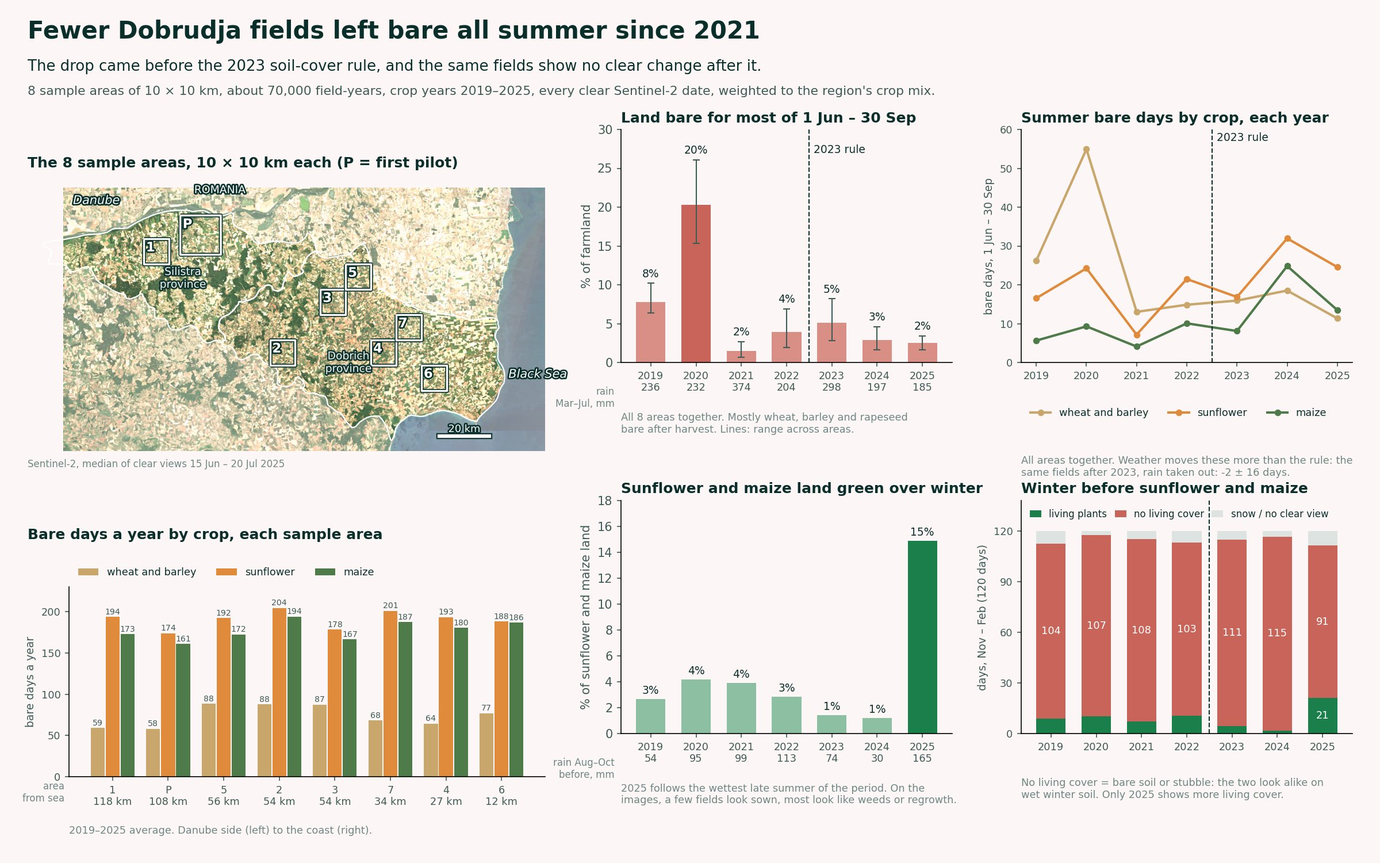
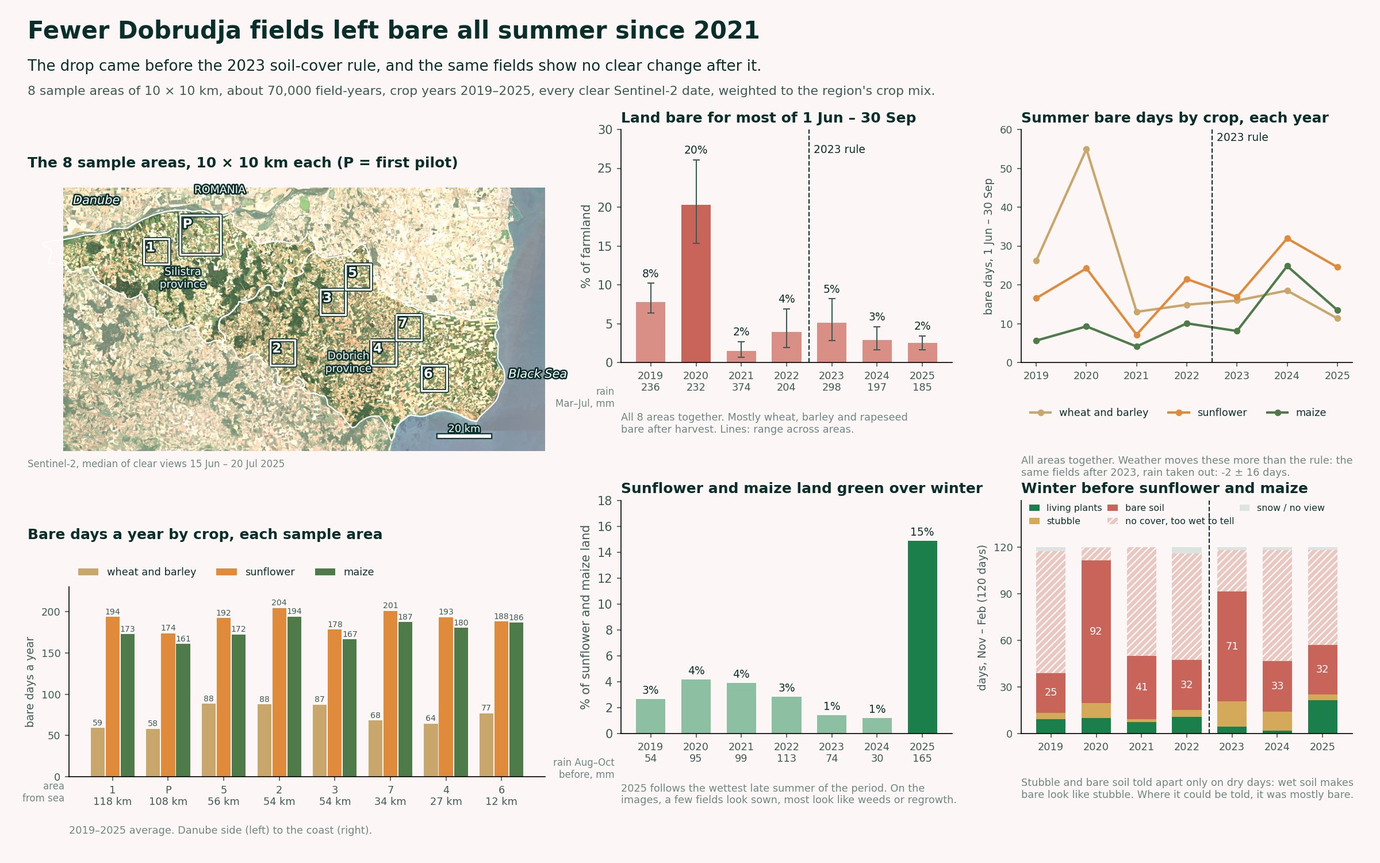
Update site

diff --git a/maritsa-emissions.html b/maritsa-emissions.html
@@ -1,0 +1,187 @@
+<!doctype html>
+<html lang="en">
+<head>
+<meta charset="utf-8">
+<meta name="viewport" content="width=device-width, initial-scale=1, viewport-fit=cover">
+<title>Maritsa Iztok Emissions · Ana Silva</title>
+<meta name="description" content="Do the emissions of Bulgaria's largest lignite complex, seen from space by Sentinel-5P, match what the plants report? SO2 and NOx, 2019 to 2024.">
+<meta property="og:title" content="Maritsa Iztok: do the emissions seen from space match the reports?">
+<meta property="og:description" content="Sentinel-5P SO2 and NO2 over Bulgaria's largest lignite complex, against the EU emissions register.">
+<meta property="og:image" content="https://kirjawa.github.io/assets/maritsa_results.jpg">
+<link rel="preconnect" href="https://fonts.googleapis.com">
+<link rel="preconnect" href="https://fonts.gstatic.com" crossorigin>
+<link rel="stylesheet" href="https://fonts.googleapis.com/css2?family=Instrument+Serif:ital@0;1&family=Figtree:wght@400;500;600&family=IBM+Plex+Mono:wght@400;500&display=swap">
+<style>
+:root{--blush:#F8D3DA;--rose:#DB8FAB;--rose-ink:#A94C73;--teal:#15A19A;--forest:#0B6152;--pine:#073B35;
+--ground:#FDF6F7;--surface:#FFFFFF;--wash:#FBE9ED;--ink:#0A2F2B;--ink-2:#3E5B56;--muted:#6F8783;--hair:#EFD9DF;
+--serif:"Instrument Serif",Georgia,"Times New Roman",serif;--sans:"Figtree",system-ui,-apple-system,"Segoe UI",sans-serif;
+--mono:"IBM Plex Mono",ui-monospace,Menlo,Consolas,monospace}
+@media (prefers-color-scheme:dark){:root:not([data-theme="light"]){color-scheme:dark;--ground:#062724;--surface:#0A3531;--wash:#0D3D38;
+--ink:#FBEAEE;--ink-2:#C9DEDA;--muted:#8FB0AA;--hair:#17504A;--rose-ink:#F0B3C9}}
+*{box-sizing:border-box}
+body{margin:0;background:var(--ground);color:var(--ink);font:400 17px/1.65 var(--sans);-webkit-font-smoothing:antialiased;padding-inline:clamp(16px,4vw,40px)}
+.wrap{max-width:820px;margin:0 auto;padding-block:28px 72px}
+.wide{max-width:1180px;margin:0 auto}
+a{color:var(--rose-ink);text-underline-offset:3px}
+a:focus-visible,button:focus-visible{outline:2px solid var(--teal);outline-offset:3px;border-radius:6px}
+.back{font:500 13px var(--mono);text-decoration:none}
+.eyebrow{display:block;margin-top:34px;font:500 12px/1 var(--mono);letter-spacing:.14em;text-transform:uppercase;color:var(--rose-ink)}
+h1{font:400 clamp(38px,5.5vw,64px)/1.02 var(--serif);margin:14px 0 18px;text-wrap:balance}
+h2{font:400 clamp(28px,3.4vw,38px)/1.1 var(--serif);margin:52px 0 12px;text-wrap:balance}
+h3{font:600 17px/1.3 var(--sans);margin:26px 0 6px}
+p,li{color:var(--ink-2)}
+.lede{font-size:19.5px;color:var(--ink)}
+ol,ul{padding-left:22px}
+li{margin:6px 0}
+figure{margin:28px 0}
+figure img{width:100%;height:auto;display:block;border-radius:12px;border:1px solid var(--hair);background:#FDF6F7;cursor:zoom-in}
+figcaption{font:400 13.5px/1.5 var(--sans);color:var(--muted);margin-top:8px}
+.pair{display:grid;grid-template-columns:1fr 1fr;gap:18px}
+.pair figure{margin:0}
+table{width:100%;border-collapse:collapse;font-size:15.5px;margin:18px 0}
+th,td{text-align:left;padding:9px 10px;border-bottom:1px solid var(--hair);vertical-align:top}
+th{font:500 12px var(--mono);letter-spacing:.06em;text-transform:uppercase;color:var(--muted)}
+th:not(:first-child){text-align:right}
+.src th,.src td{text-align:left}
+td.n{text-align:right;font-variant-numeric:tabular-nums;white-space:nowrap}
+.tbl{overflow-x:auto}
+.note{background:var(--wash);border-radius:12px;padding:16px 20px;margin:24px 0}
+.note p{margin:0}
+.src td:first-child{white-space:nowrap;color:var(--ink)}
+footer{border-top:1px solid var(--hair);margin-top:56px;padding-top:18px;font:400 13px var(--mono);color:var(--muted)}
+@media (max-width:760px){.pair{grid-template-columns:1fr}}
+/* workflow */
+.flow{margin:26px 0 30px;border:1px solid var(--hair);border-radius:16px;background:var(--surface);padding:22px clamp(14px,3vw,26px)}
+.flow .lbl{font:500 11.5px/1 var(--mono);letter-spacing:.12em;text-transform:uppercase;color:var(--muted);margin:0 0 10px}
+.srcs{display:flex;flex-wrap:wrap;gap:8px;margin-bottom:6px}
+.srcs span{font:500 13px/1.3 var(--sans);color:var(--ink);background:var(--ground);border:1px solid var(--hair);border-radius:99px;padding:6px 12px}
+.arrow{height:26px;display:grid;place-items:center;color:var(--rose-ink);font:16px/1 var(--sans)}
+.row{display:grid;grid-template-columns:1.25fr 1fr;gap:14px;align-items:stretch}
+.step{background:var(--ground);border:1px solid var(--hair);border-left:4px solid var(--forest);border-radius:10px;padding:12px 14px}
+.step b{display:block;font:600 15.5px/1.3 var(--sans);color:var(--ink)}
+.step p{margin:4px 0 0;font-size:14.5px;line-height:1.5}
+.tools{display:block;margin-top:6px;font:400 12px/1.4 var(--mono);color:var(--muted)}
+.chk{background:var(--wash);border-radius:10px;padding:12px 14px;border:1px dashed var(--rose)}
+.chk i{font:500 11px/1 var(--mono);letter-spacing:.1em;text-transform:uppercase;color:var(--rose-ink);font-style:normal;display:block;margin-bottom:5px}
+.chk p{margin:0;font-size:14px;line-height:1.5}
+.chk.empty{background:none;border:0}
+.outs{display:grid;grid-template-columns:repeat(3,1fr);gap:8px}
+.outs span{font:500 13.5px/1.35 var(--sans);color:#fff;background:var(--forest);border-radius:10px;padding:10px 12px}
+@media (max-width:640px){.row{grid-template-columns:1fr;gap:8px}.chk.empty{display:none}.outs{grid-template-columns:1fr}}
+/* lightbox */
+dialog.lb{border:0;padding:0;margin:0;width:100vw;height:100vh;max-width:none;max-height:none;background:rgba(7,39,36,.94);color:#fff}
+.lb-stage{position:absolute;inset:52px 56px 56px;overflow:auto;display:grid;place-items:center}
+.lb-stage img{max-width:100%;max-height:100%;object-fit:contain;cursor:zoom-in;border-radius:6px;background:#FDF6F7}
+.lb.full .lb-stage{place-items:start}.lb.full .lb-stage img{max-width:none;max-height:none;cursor:zoom-out}
+.lb-cap{position:absolute;left:56px;right:56px;bottom:16px;text-align:center;font-size:14px;color:#E8F1EF}
+.lb button{position:absolute;top:10px;right:14px;background:rgba(253,246,247,.1);color:#fff;border:1px solid rgba(248,211,218,.3);border-radius:99px;width:44px;height:44px;font-size:20px;cursor:pointer}
+</style>
+</head>
+<body>
+<div class="wrap">
+  <a class="back" href="./">← Ana Silva · portfolio</a>
+  <span class="eyebrow">Study · Maritsa Iztok, Bulgaria</span>
+  <h1>Maritsa Iztok: do the emissions seen from space match the reports?</h1>
+  <p class="lede">The Maritsa Iztok lignite complex near Galabovo has four power plants within about 20 km, and it is often described as Europe's largest single source of sulphur dioxide. The plants report their yearly emissions to the EU register. The Sentinel-5P satellite measures SO₂ and NO₂ over the complex almost every day. So I asked: do the two tell the same story?</p>
+  <p>The study looks at the complex as a whole, from 2019 to 2024. This page explains how, what I found, and what satellites can and can't say about it.</p>
+</div>
+
+<div class="wide">
+  <figure><img src="assets/maritsa_results.jpg" alt="Yearly SO2 maps over Maritsa Iztok from 2019 to 2024, and charts of SO2 and NOx estimated from space against the plants' reported emissions" data-caption="Maritsa Iztok from space: NOx matches the reports, SO₂ reads 3–4 times higher"><figcaption>All results on one page. Click to enlarge.</figcaption></figure>
+</div>
+
+<div class="wrap">
+  <h2>How I did it</h2>
+  <div class="flow" role="figure" aria-label="Workflow of the study, from open data sources to results, with the checks at each step">
+    <p class="lbl">Open data in</p>
+    <div class="srcs"><span>Sentinel-5P SO₂ and NO₂ (ESA reprocessed)</span><span>ERA5 wind</span><span>EU industrial emissions register</span><span>NASA global SO₂ catalogue</span></div>
+    <div class="arrow" aria-hidden="true">↓</div>
+    <div class="row"><div class="step"><b>1 · Every overpass, only the window needed</b><p>Each daily orbit file is about 1 GB. Only the part over the complex is read, for every day from May 2018 to June 2025.</p><span class="tools">OData catalogue · S3 · h5py · pandas</span></div><div class="chk"><i>Check</i><p>ESA's reprocessed archive, one consistent software version. On the same days, the older version gives the same result (ratio 1.01 for SO₂, 0.95 for NO₂).</p></div></div>
+    <div class="arrow" aria-hidden="true">↓</div>
+    <div class="row"><div class="step"><b>2 · Lined up with the wind</b><p>Each overpass is turned so the wind blows the same way, using the ERA5 wind at the time of the overpass.</p><span class="tools">NumPy · pandas</span></div><div class="chk"><i>Check</i><p>Only days with usable wind and clear sky. Days with SO₂ drifting in from far away, such as volcanic plumes, are left out.</p></div></div>
+    <div class="arrow" aria-hidden="true">↓</div>
+    <div class="row"><div class="step"><b>3 · Yearly emissions from the plume</b><p>The standard plume fit (Fioletov and colleagues, used for NASA's catalogue): the four plants, the wind, and how fast each gas disappears, fitted on all overpasses of a year.</p><span class="tools">SciPy · NumPy</span></div><div class="chk"><i>Check</i><p>Ranges from resampling the days. A simpler crossing-line method gives the same ups and downs under every setting tried (correlation 0.97 to 0.99).</p></div></div>
+    <div class="arrow" aria-hidden="true">↓</div>
+    <div class="row"><div class="step"><b>4 · Against the reports</b><p>Yearly totals of the four plants from the EU register. NO₂ turned into NOx with the published factor 1.38.</p><span class="tools">pandas</span></div><div class="chk"><i>Check</i><p>An independent benchmark: NASA's SO₂ catalogue estimate for the same complex, within about 10% of ours in five of six years.</p></div></div>
+    <div class="arrow" aria-hidden="true">↓</div>
+    <p class="lbl">Results out</p>
+    <div class="outs"><span>Yearly SO₂ and NOx estimated from space, 2019–2024</span><span>Comparison with the reports and with NASA</span><span>Maps and plume figures</span></div>
+  </div>
+
+  <h2>What I found</h2>
+  <div class="tbl"><table>
+    <tr><th>Thousand tonnes a year</th><th>2019</th><th>2020</th><th>2021</th><th>2022</th><th>2023</th><th>2024</th></tr>
+    <tr><td>SO₂, this study</td><td class="n">132</td><td class="n">113</td><td class="n">129</td><td class="n">183</td><td class="n">88</td><td class="n">52</td></tr>
+    <tr><td>SO₂, NASA catalogue</td><td class="n">147</td><td class="n">117</td><td class="n">133</td><td class="n">233</td><td class="n">96</td><td class="n">57</td></tr>
+    <tr><td>SO₂, reported</td><td class="n">37</td><td class="n">28</td><td class="n">35</td><td class="n">47</td><td class="n">22</td><td class="n">16</td></tr>
+    <tr><td>NOx, this study</td><td class="n">10.1</td><td class="n">8.0</td><td class="n">10.2</td><td class="n">13.4</td><td class="n">6.0</td><td class="n">4.6</td></tr>
+    <tr><td>NOx, reported</td><td class="n">10.6</td><td class="n">8.6</td><td class="n">10.9</td><td class="n">14.3</td><td class="n">6.9</td><td class="n">5.6</td></tr>
+  </table></div>
+
+  <h3>The ups and downs agree for both gases</h3>
+  <p>From space and in the reports, both gases dip in 2020, peak in 2022 during the energy crisis, and fall steeply in 2023 and 2024. Year by year, the correlation with the reports is 0.986 for SO₂ and 0.998 for NOx.</p>
+
+  <h3>NOx matches the reported amount</h3>
+  <p>The NOx estimated from space is 82% to 95% of what the plants report, every year. That is in line with published checks elsewhere: the reference NOx catalogue reads on average 17% below Germany's register.</p>
+
+  <h3>SO₂ reads 3 to 4 times the reported amount</h3>
+  <p>For SO₂ the picture is different. Two independent satellite estimates, this study and NASA's global catalogue, agree closely with each other, and both are 3 to 4 times the amount the plants report, every year. The gap is larger than the usual uncertainty of the method, which is about 50%.</p>
+  <p>Satellites can't tell where that gap comes from. The satellite's sensitivity to plumes from very tall stacks, other sources in the complex, and how emissions are measured and reported at the plants are all possible explanations. This study is not evidence of any of them. It shows a difference worth understanding.</p>
+</div>
+
+<div class="wrap">
+  <h2>How I checked it</h2>
+  <ul>
+    <li><b>Software versions.</b> Sentinel-5P's processing software was upgraded in 2020 and 2021. I used ESA's reprocessed archive, where all years share one version, and checked that the older version gives the same result on the same days.</li>
+    <li><b>Method settings.</b> A simpler method that measures the plume crossing lines 10 to 40 km downwind gives the same ups and downs whatever the distance, wind height or season weighting (correlation 0.97 to 0.99).</li>
+    <li><b>An independent estimate.</b> NASA's global SO₂ source catalogue, made by a different team with a different retrieval, gives yearly values within about 10% of this study in five of six years.</li>
+    <li><b>The plume itself.</b> Averaged over more than a thousand overpasses, lined up with the wind, both gases form a clear plume leaving the complex.</li>
+  </ul>
+</div>
+<div class="wide">
+  <figure><img src="assets/maritsa_plume.jpg" alt="Average SO2 and NO2 plumes over Maritsa Iztok, each overpass rotated so the wind blows to the right" data-caption="The average plume, lined up with the wind"><figcaption>Every overpass turned so the wind blows to the right, then averaged.</figcaption></figure>
+</div>
+
+<div class="wrap">
+  <h2>What this can't tell you</h2>
+  <div class="note"><p>This compares the complex as a whole with the four plants' combined reports. The satellite pixels, about 5 by 3.5 km, can't separate plants that stand a few kilometres apart, so no plant is singled out here.</p></div>
+  <ul>
+    <li>Estimates from space assume a plume height and use the wind at 100 m. Both affect the level more than the ups and downs.</li>
+    <li>In 2023 the NO₂ product moved to a newer software version. The small drop in the NOx ratio in 2023 and 2024 may partly come from that; SO₂, on one version throughout, shows no such step.</li>
+    <li>2018 and 2025 are left out because the satellite record covers only part of those years.</li>
+  </ul>
+
+  <h2>Data</h2>
+  <div class="tbl"><table class="src">
+    <tr><td>Satellite</td><td>Copernicus Sentinel-5P TROPOMI SO₂ and NO₂, ESA reprocessed archive, via the Copernicus Data Space Ecosystem</td></tr>
+    <tr><td>Wind</td><td>ERA5 (Copernicus Climate Change Service) via Open-Meteo</td></tr>
+    <tr><td>Reported emissions</td><td>EEA Industrial Reporting under the Industrial Emissions Directive and E-PRTR, version 16</td></tr>
+    <tr><td>Benchmark</td><td>NASA MSAQSO2L4 version 2, global catalogue of large SO₂ sources, 2005–2025</td></tr>
+    <tr><td>Method</td><td>Plume fit after Fioletov et al. (2020); NO₂ to NOx factor from Beirle et al. (2023)</td></tr>
+    <tr><td>Boundaries</td><td>geoBoundaries, ODbL</td></tr>
+  </table></div>
+  <p>The code runs end to end from these sources. If you'd like emissions from a site or a region checked from space, <a href="./#contact">get in touch</a>.</p>
+
+  <footer>Ana Silva · GIS &amp; remote sensing · September 2026</footer>
+</div>
+
+<dialog class="lb" id="lb" aria-label="Figure viewer">
+  <button type="button" aria-label="Close">✕</button>
+  <div class="lb-stage"><img alt=""></div>
+  <div class="lb-cap"></div>
+</dialog>
+<script>
+(function(){
+  var d=document.getElementById('lb'); if(!d||!d.showModal) return;
+  var im=d.querySelector('img'), cap=d.querySelector('.lb-cap'), st=d.querySelector('.lb-stage');
+  document.querySelectorAll('figure img').forEach(function(f){
+    f.addEventListener('click',function(){ d.classList.remove('full'); im.src=f.src; im.alt=f.alt;
+      cap.textContent=f.dataset.caption||f.alt; d.showModal(); st.scrollTo(0,0); });
+  });
+  im.addEventListener('click',function(){ d.classList.toggle('full'); });
+  d.querySelector('button').addEventListener('click',function(){ d.close(); });
+  d.addEventListener('click',function(e){ if(e.target===d||e.target===st) d.close(); });
+})();
+</script>
+</body>
+</html>

diff --git a/soil-cover.html b/soil-cover.html
@@ -132,7 +132,8 @@ dialog.lb{border:0;padding:0;margin:0;width:100vw;height:100vh;max-width:none;ma
     <tr><td>Same fields after 2023, bare days over the whole year</td><td class="n">−5 ± 24 days</td></tr>
     <tr><td>Bare days a year, wheat and barley</td><td class="n">about 60 to 90</td></tr>
     <tr><td>Bare days a year, sunflower and maize</td><td class="n">about 160 to 200</td></tr>
-    <tr><td>Winter days with no living cover before sunflower and maize (of 120)</td><td class="n">103 to 115</td></tr>
+    <tr><td>Winter days with no living cover before sunflower and maize (of 120)</td><td class="n">97 to 117</td></tr>
+    <tr><td>Of those, stubble where the soil was dry enough to tell</td><td class="n">5 to 27%</td></tr>
     <tr><td>Sunflower and maize land green over winter, 2019 to 2024</td><td class="n">1 to 4%</td></tr>
     <tr><td>Same, 2025</td><td class="n">15%</td></tr>
     <tr><td>Farmland with standing water after rain, any year</td><td class="n">under 1%</td></tr>
@@ -145,7 +146,7 @@ dialog.lb{border:0;padding:0;margin:0;width:100vw;height:100vh;max-width:none;ma
   <p>Wheat and barley are harvested in July and their stubble counts as cover, so they have about 60 to 90 bare days a year. Sunflower and maize leave the soil open from autumn to late spring, about 160 to 200 days. Between areas the differences are smaller. The two areas by the Danube are the least bare and one central area is the barest, but there is no clean pattern from the Danube to the coast.</p>
 
   <h3>Winter is the gap</h3>
-  <p>Since August 2024 the Bulgarian rule covers summer only. Winter is when the soil is most exposed: before sunflower and maize there is no living cover on 103 to 115 of the 120 days from November to February. In the winter I checked on the images, it was tilled soil rather than stubble.</p>
+  <p>Since August 2024 the Bulgarian rule covers summer only. Winter is when the soil is most exposed: before sunflower and maize there is no living cover on most of the 120 days from November to February. Telling stubble from bare soil in winter is harder, because wet soil makes bare ground look like stubble. So I only made that call on days when the topsoil was dry. On those days it was mostly bare soil: stubble made up only 5 to 27% of them, depending on the year.</p>
 
   <h3>2025 was greener in winter, but mostly not from cover crops</h3>
   <p>In winter 2024 to 2025, 15% of the land waiting for sunflower or maize was green for most of the winter, against 1 to 4% in every earlier year. It followed by far the wettest late summer of the period. On the images, a few of these fields look sown, as a cover crop would be, but most look like weeds and cereal regrowth. The register only records the main crop, so satellite data alone can't prove a cover crop.</p>
@@ -155,7 +156,9 @@ dialog.lb{border:0;padding:0;margin:0;width:100vw;height:100vh;max-width:none;ma
   <h2>How I checked it</h2>
   <ul>
     <li><b>A random spot-check.</b> In the pilot area I drew 15 random field dates and judged each one on the image. About 11 to 13 of 15 were right, and the misses were borderline cases.</li>
-    <li><b>The two winter signals, on the images.</b> 12 random fields for each. The green winter of 2025 held up, although much of it is patchy. The 2019 "stubble" did not: all 12 were dark, wet, tilled soil. So winter results now count stubble and bare soil together.</li>
+    <li><b>200 views, labelled blind.</b> I drew 200 random field views across all areas and years and labelled each image by eye without seeing what the method had called it. Of the views that were clear enough to judge, living plants were right 89% of the time, while stubble and bare soil were right about 65 to 70% of the time. They get confused with each other in both directions, by about the same amount, so the yearly shares stay fair, but a single field on a single day is less certain. On the views taken on wet soil that the method no longer calls, 15 of 16 were bare soil, which supports leaving them out.</li>
+    <li><b>The two winter signals, on the images.</b> 12 random fields for each. The green winter of 2025 held up, although much of it is patchy. The 2019 "stubble" did not: all 12 were dark, wet, tilled soil.</li>
+    <li><b>Wet soil, measured.</b> Published work warns that the stubble index is thrown off by soil moisture. With daily topsoil moisture from ERA5-Land, the effect is clear here too: on sunflower and maize land in winter and at sowing, 1 to 6% of views read as stubble when the topsoil is dry, but 44 to 69% when it is very wet. So in winter, stubble and bare soil are only told apart on dry days, and the rest is shown as "too wet to tell". The odd 2019 winter falls back in line.</li>
     <li><b>Floods.</b> Dark radar after rain also comes from wheat in ear, not only from water. Fields flagged in wheat during heading were dropped, and so were faulty radar scenes from 2017 to 2018. What remains is under 1% of the farmland in any year.</li>
     <li><b>Distance to water, tested and dropped.</b> Fields near rivers and lakes first looked barer. Inside each area the effect changed direction from one area to the next, so it came from where the areas are, not from the water.</li>
   </ul>
@@ -169,7 +172,7 @@ dialog.lb{border:0;padding:0;margin:0;width:100vw;height:100vh;max-width:none;ma
   <div class="note"><p>This measures how long the soil lies bare, field by field. It can't say whether a farm meets the rule: the rule applies to 80% of each holding, and the public register doesn't say which fields belong to the same farm. No farm is named or can be identified here.</p></div>
   <ul>
     <li>These are sample estimates from 8 areas, weighted to the region. Patterns between areas are described, not tested.</li>
-    <li>In winter, stubble and wet bare soil look the same, so they are counted together as "no living cover".</li>
+    <li>In winter the soil is often too wet to tell stubble from bare soil. Those days are shown separately, not guessed.</li>
     <li>The register records the main crop only, so green land between crops may be a cover crop, weeds or regrowth.</li>
     <li>The rule changed in August 2024, so 2024 is a transition year.</li>
     <li>Weather data is about 9 km across. It describes the local climate, not each field.</li>

diff --git a/index.html b/index.html
@@ -357,6 +357,22 @@ dialog.lb::backdrop{background:rgba(7,39,36,.6)}
             </div>
           </div>
         </article>
+        <article class="tile t-duo">
+          <div class="figs">
+            <figure class="fig" style="flex:1.70 1 0;aspect-ratio:1.70"><a class="zoom" href="assets/maritsa_results.jpg" target="_blank" rel="noopener" aria-label="Open full-size figure: Maritsa Iztok from space: NOx matches the reports, SO₂ reads 3–4 times higher"><img src="assets/maritsa_results.jpg" alt="Yearly SO2 maps over Maritsa Iztok 2019 to 2024 and charts of SO2 and NOx estimated from space against reported emissions" loading="lazy"></a></figure>
+            <figure class="fig" style="flex:2.5 1 0;aspect-ratio:2.5"><a class="zoom" href="assets/maritsa_plume.jpg" target="_blank" rel="noopener" aria-label="Open full-size figure: The average plume, lined up with the wind"><img src="assets/maritsa_plume.jpg" alt="Average SO2 and NO2 plumes over Maritsa Iztok, rotated so the wind blows to the right" loading="lazy"></a></figure>
+          </div>
+          <div class="body">
+            <span class="status">Complete · Maritsa Iztok, Bulgaria</span>
+            <h3>Maritsa Iztok: do the emissions seen from space match the reports?</h3>
+            <p>Sentinel-5P over Bulgaria's largest lignite complex, 2019 to 2024. The ups and downs match the plants' reports for both gases. NOx matches the reported amount too; SO₂ reads 3 to 4 times higher, as NASA's independent estimate also finds.</p>
+            <div>
+              <p>Standard plume fit, ESA's reprocessed archive, and a check against NASA's global SO₂ catalogue.</p>
+              <div class="tags" style="margin-top:10px"><span class="tag">Sentinel-5P</span><span class="tag">Copernicus Data Space</span><span class="tag">ERA5 wind</span><span class="tag">EU emissions register</span></div>
+              <a class="more" href="maritsa-emissions.html" style="display:inline-block;margin-top:10px">Read how I did it →</a>
+            </div>
+          </div>
+        </article>
         <article class="tile t-third">
           <figure class="fig"><a class="zoom" href="assets/national_fields.jpg" target="_blank" rel="noopener" aria-label="Open full-size figure: A country, field by field"><img src="assets/national_fields.jpg" alt="Map of Bulgaria made of 1.1 million farm parcels coloured by declared crop" loading="lazy"></a></figure>
           <div class="body">
@@ -406,10 +422,6 @@ dialog.lb::backdrop{background:rgba(7,39,36,.6)}
             
           </div>
         </article>
-      </div>
-      <div class="next">
-        <h3>In progress</h3>
-        <div><b>Power-plant emissions</b><span>Sentinel-5P SO₂ and NO₂ over Maritsa Iztok vs reported emissions.</span></div>
       </div>
     </div>
     <svg class="blob bottom" viewBox="0 0 1200 80" preserveAspectRatio="none" aria-hidden="true"><path d="M0,80 L0,40 C170,62 300,20 480,34 C640,46 760,70 920,50 C1040,35 1120,22 1200,40 L1200,80 Z"/></svg>

diff --git a/farmland-trees.html b/farmland-trees.html
@@ -144,8 +144,12 @@ dialog.lb{border:0;padding:0;margin:0;width:100vw;height:100vh;max-width:none;ma
     <li><b>Land that shouldn't change.</b> Bare rock and crust shifted +0.012 between the old and new images, against +0.039 on farmland. About a third of the raw change is the images, and that part is taken out.</li>
     <li><b>A second satellite.</b> Sentinel-2, measured independently at 10 m, finds more woody cover today exactly where Landsat finds more greening.</li>
     <li><b>Three places by eye.</b> The greening block, the river valley and the least greening area, each in 1990 and 2025 images and in the 1 m tree map.</li>
+    <li><b>Rain against greenness, year by year.</b> The standard way to separate rain from people in the Sahel (called RESTREND) compares each place's dry-season greenness with the rain of the season before, every year from 2014 to 2025, and looks at what the rain leaves unexplained. It confirms the pattern: the places that greened most since the 1980s are the ones still greening most beyond the rain today, and almost nowhere is getting less woody than rain predicts. How much greening beyond rain there is depends on the rain record used, so I don't put a number on it.</li>
     <li><b>Tested and dropped.</b> The 1 m tree map as the main reference: its cover jumps between the source images far more than between places. A comparison across the Niger–Nigeria border: no consistent difference. The EU's JRC forest map: it marks only 0.1 to 0.3% of the area as forest, because by design it leaves out trees on farmland.</li>
   </ul>
+</div>
+<div class="wide">
+  <figure><img src="assets/niger_restrend.jpg" alt="Map of greening beyond rain 2014 to 2025 per 1 km hexagon, and bars showing it rises with the greening since the 1980s" data-caption="Year by year, rain against greenness"><figcaption>Greening beyond what the rain explains, 2014–2025, with two rain records.</figcaption></figure>
 </div>
 <div class="wide">
   <figure><img src="assets/niger_image_check.jpg" alt="Three places, each shown in 1990 and 2025 Landsat images, a 2025 Sentinel-2 image and the 1 m tree map, with what each shows" data-caption="Three places on the map, checked on the images"><figcaption>Three places on the map, 4 × 4 km each, with what the images show.</figcaption></figure>

diff --git a/palm-oil.html b/palm-oil.html
@@ -122,6 +122,7 @@ dialog.lb{border:0;padding:0;margin:0;width:100vw;height:100vh;max-width:none;ma
     <li><b>With my own eyes.</b> I looked at Sentinel-2 images before and after for four of the places with the most clearing. All four were real clearing, but only one was a new palm plantation. One was mining, which is why I added the cause of loss.</li>
     <li><b>The cause map, against those images.</b> The global drivers map called the plantation agriculture and the pits mining, matching what the images show.</li>
     <li><b>The off-road allowance.</b> Ranking the West Kalimantan mills with 1 km instead of 3 km off the mapped roads gives almost the same order (rank correlation 0.99).</li>
+    <li><b>Against the usual 50 km circle.</b> Many screening tools draw a 50 km circle around each mill. With circles instead of road travel time, the mills rank broadly the same way (rank correlation 0.86 in West Kalimantan, 0.92 in Riau), but about a quarter of them land in a different risk class (30% and 22%), and only 6 and 7 of the top 10 stay in the top 10. In West Kalimantan, where roads are sparse, the circles cover 1.7 times more land than a truck can reach in 2 hours.</li>
     <li><b>Totals against known figures.</b> The palm area for Riau (2.85 Mha) and the protected forest in West Kalimantan (3.7 Mha) are close to official numbers.</li>
   </ul>
 </div>
